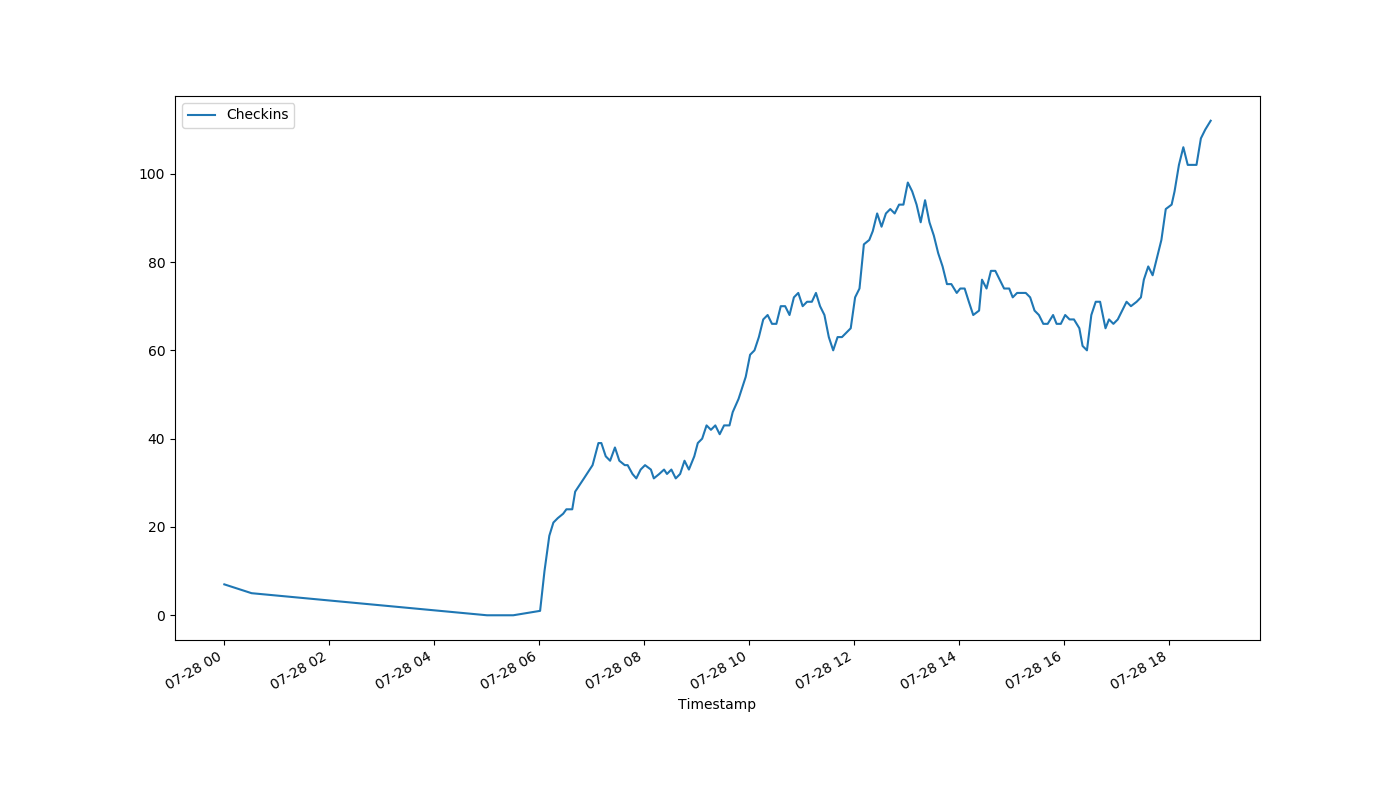
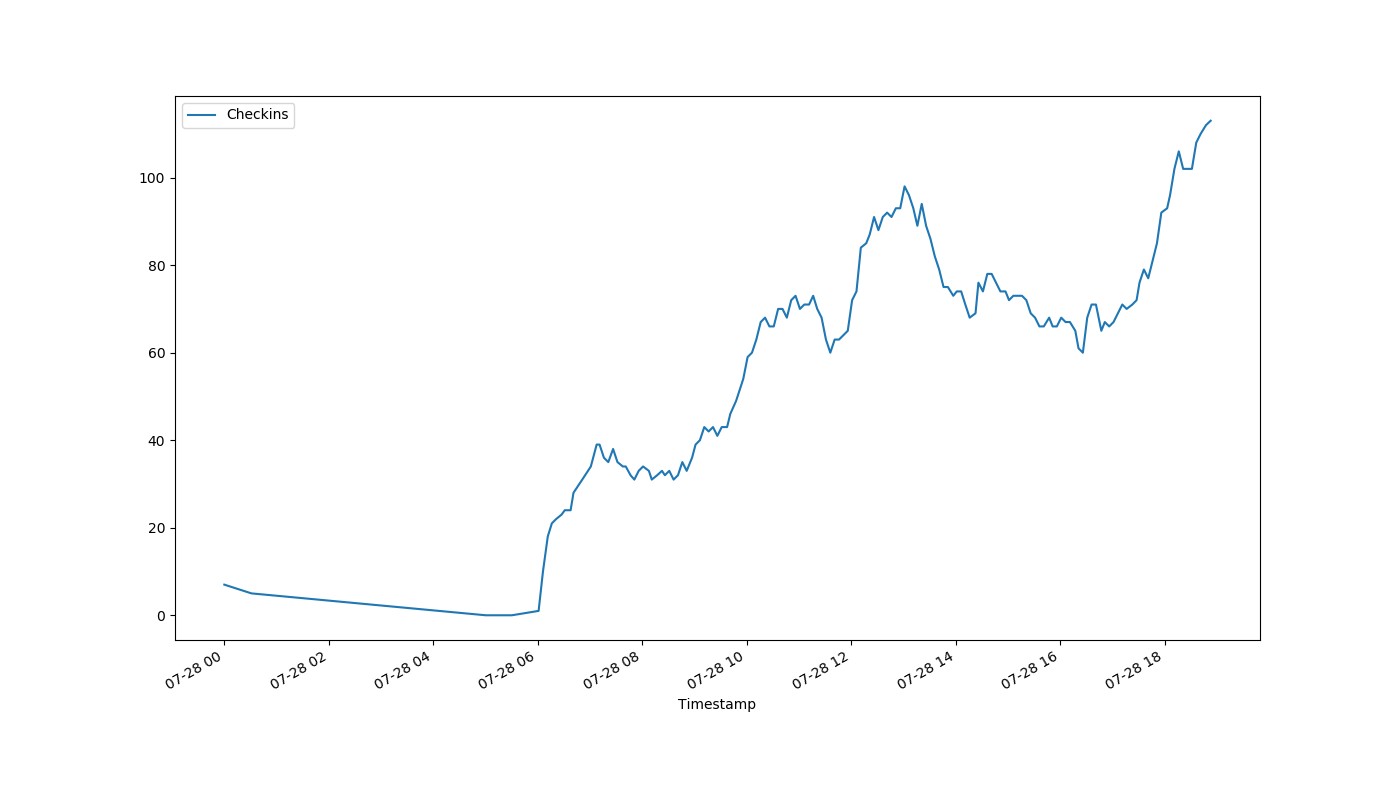
auto-Jul-28-18:54:53

diff --git a/index.html b/index.html
@@ -1,1 +1,1 @@
-<!DOCTYPE html><html><head><meta http-equiv="refresh" content="30"><link rel='stylesheet' href='holmcurrent.css'></head><body><p id='count'>-1</p><div id='graph-wrap'><img id='graph' src='holmgraph-Jul-28.png'></div><p id='updated'>Last updated 18:52:18 / 18:51:26</p></body></html>
+<!DOCTYPE html><html><head><meta http-equiv="refresh" content="30"><link rel='stylesheet' href='holmcurrent.css'></head><body><p id='count'>113</p><div id='graph-wrap'><img id='graph' src='holmgraph-Jul-28.png'></div><p id='updated'>Last updated 18:53:18 / 18:52:46</p></body></html>
